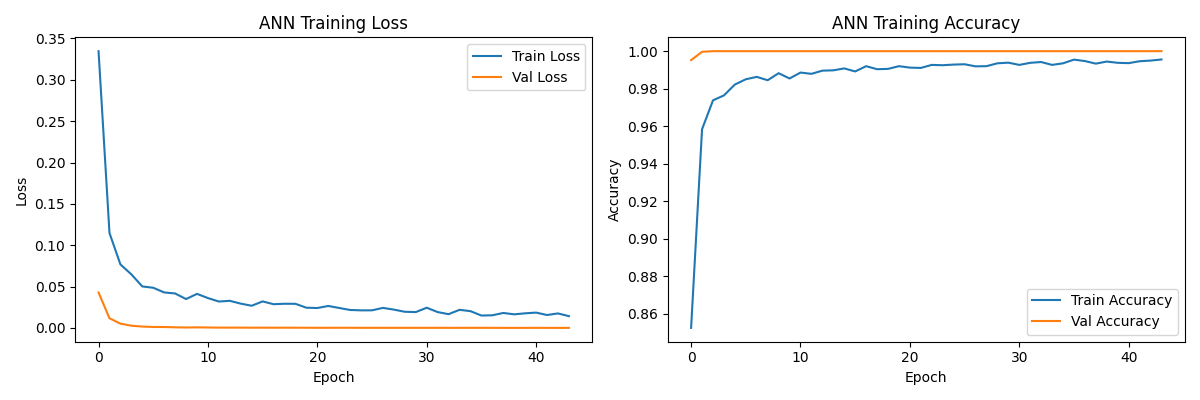
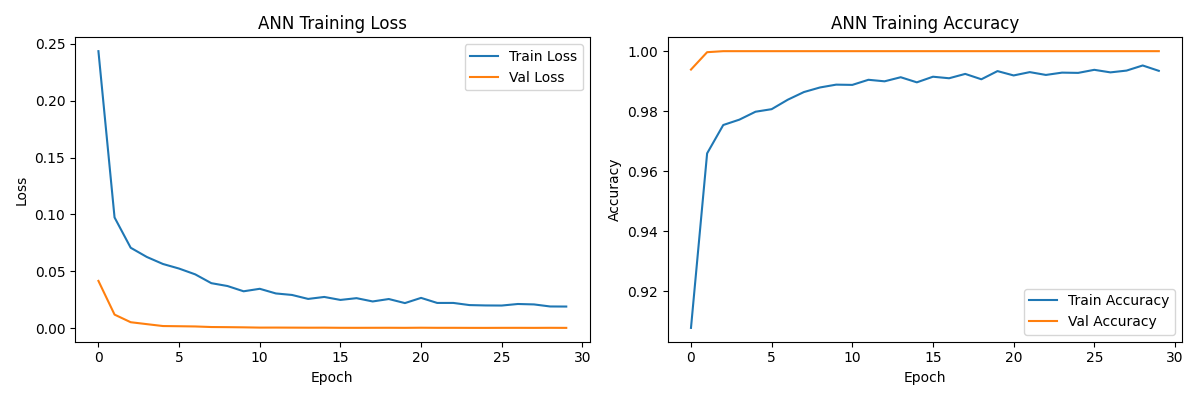
add blockchain.py blockchain_ledger_sample.csv
- Added blockchain ledger for ANN fraud predictions
- Implemented SHA-256 hashing and chain integrity verification
- Added tamper detection simulation for modified blocks
- Replaced datetime.utcnow() with timezone-aware datetime
- Logged 10,000 healthcare claims to blockchain
- Generated blockchain ledger sample CSV
- Integrated ANN fraud scores with blockchain records"

diff --git a/blockchain.py b/blockchain.py
@@ -3,7 +3,7 @@ import json
 import joblib
 import numpy as np
 import pandas as pd
-from datetime import datetime
+from datetime import datetime, timezone
 
 import tensorflow as tf
 from tensorflow.keras.models import load_model
@@ -19,7 +19,7 @@ class Block:
         self.claim_hash   = claim_hash
         self.fraud_score  = round(float(fraud_score), 4)
         self.decision     = decision
-        self.timestamp    = datetime.utcnow().strftime("%Y-%m-%dT%H:%M:%SZ")
+        self.timestamp = datetime.now(timezone.utc).strftime("%Y-%m-%dT%H:%M:%SZ")
         self.model_version = model_version
         self.previous_hash = previous_hash
         self.hash         = self.compute_hash()
@@ -214,14 +214,31 @@ print("TAMPER DETECTION TEST")
 print("="*55)
 print("Simulating tampering on block 3...")
 
-# Manually alter a block to simulate tampering
-bc.chain[3].fraud_score = 0.0
-bc.chain[3].decision    = "Legitimate"
+# Rebuild a small clean chain for tamper test
+bc_test = Blockchain()
+for i in range(10):
+    claim_data = {
+        "claim_id":    claim_ids[i],
+        "provider_id": provider_ids[i],
+        "fraud_score": round(float(fraud_probs[i]), 4)
+    }
+    bc_test.add_record(claim_data, float(fraud_probs[i]))
 
-is_valid_after, message_after = bc.verify_integrity()
-print(f"Result : {message_after}")
-print(f"Valid  : {is_valid_after}")
-print("Tamper detected correctly!" if not is_valid_after else "WARNING: Tamper not detected")
+# Verify before tampering
+is_valid_before, msg_before = bc_test.verify_integrity()
+print(f"Before tamper — Valid: {is_valid_before} | {msg_before}")
+
+# Tamper by changing the previous_hash directly (breaks the chain link)
+bc_test.chain[3].previous_hash = "0000000000000000tampered0000000000000000"
+
+# Verify after tampering
+is_valid_after, msg_after = bc_test.verify_integrity()
+print(f"After tamper  — Valid: {is_valid_after} | {msg_after}")
+
+if not is_valid_after:
+    print("Tamper detected correctly! Blockchain is secure.")
+else:
+    print("WARNING: Tamper not detected")
 
 # ─────────────────────────────────────────
 # STEP 7: Print blockchain summary table

diff --git a/ann_model.py b/ann_model.py
@@ -251,6 +251,6 @@ print("\nSaved: full_model_summary.csv")
 # ─────────────────────────────────────────
 # STEP 17: Save ANN model
 # ─────────────────────────────────────────
-model.save("ann_model.h5")
+model.save("ann_model.keras")
 print("\nANN model saved to ann_model.h5")
 print("Done! Run blockchain.py next.")
